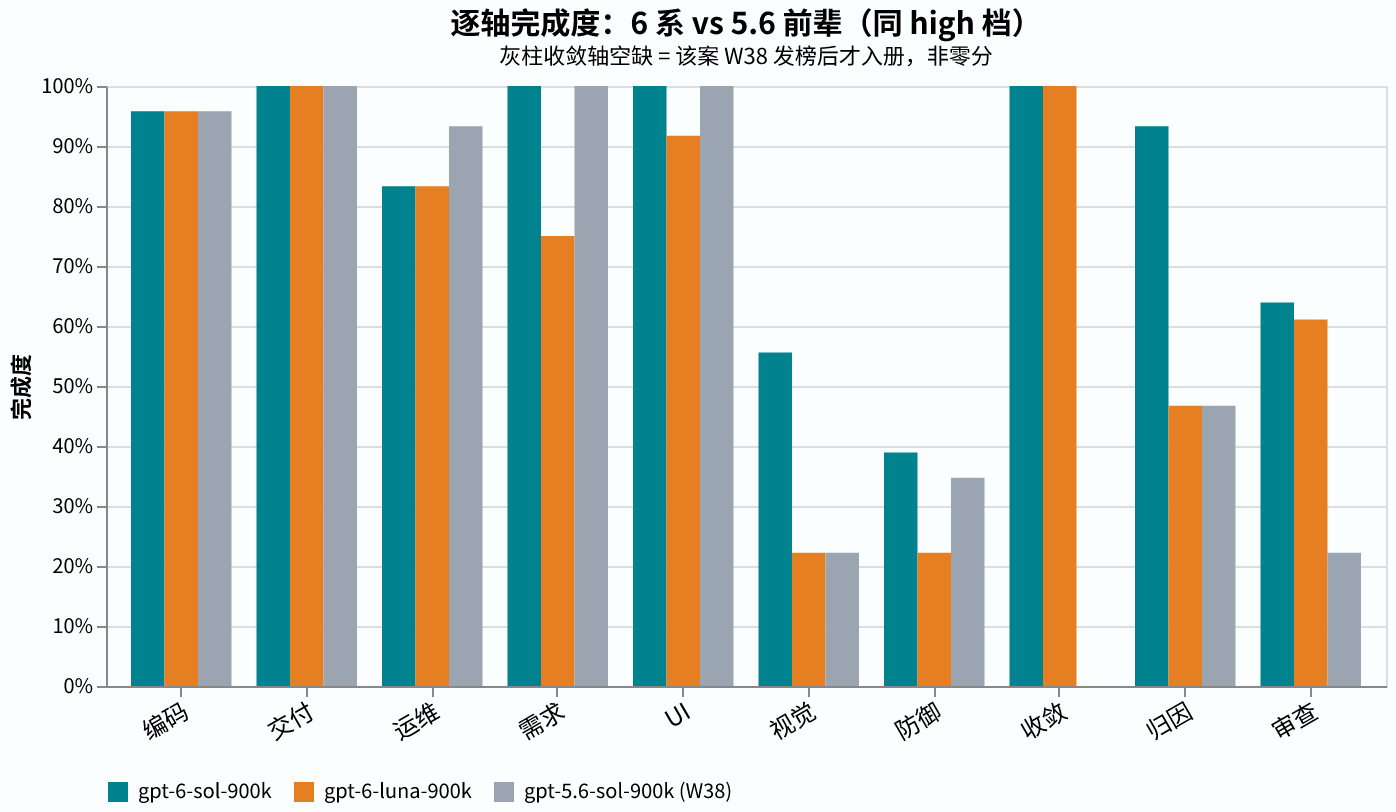
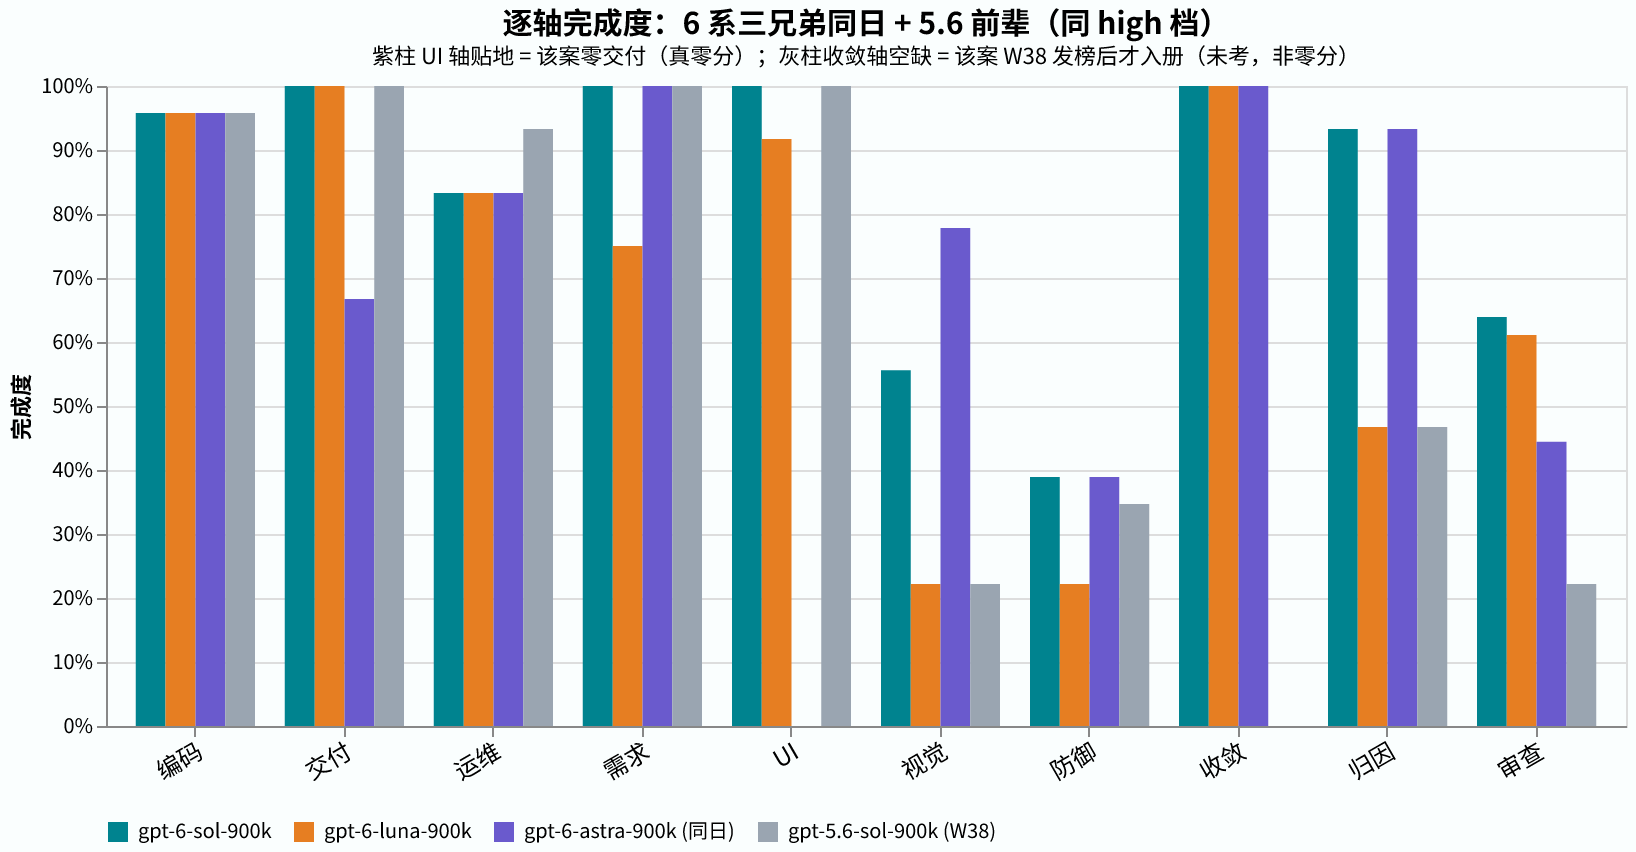
W39: add gpt-6-astra-900k same-day control column (16/24, double-run pair zero flips) to matrix + composition/axes charts + README hooks

diff --git a/results/2026-W39.md b/results/2026-W39.md
@@ -1,8 +1,8 @@
 # 2026-W39 — GPT-6 Sol / Luna 全库首考（OpenAI 6 系首发日）
 
-gpt-6-sol-900k **17/24** · gpt-6-luna-900k **15/24** — 案口径（一个案子要么全钉绿，要么算输）。
+gpt-6-sol-900k **17/24** · gpt-6-astra-900k **16/24**（同日对照）· gpt-6-luna-900k **15/24** — 案口径（一个案子要么全钉绿，要么算输）。
 
-OpenAI 在 2026-09-22 放出 6 系两款子型号（Sol / Luna）。发次日我们让它们在 AMBER 全库（24 案 / 27 卷）各跑了一遍 high 档。结论先行：**Sol 以 17/24 追平目前的跨仓榜首 opus-5.5（引用列，见 [amber-claude W39](https://github.com/getaskclaw/amber-claude/blob/main/results/2026-W39.md)）；Luna 15/24 明显落在后面——5.6 时代「luna ≥ sol」的家族规律在 6 系翻转了。**
+OpenAI 在 2026-09-22 放出 6 系两款子型号（Sol / Luna）。发次日我们让它们在 AMBER 全库（24 案 / 27 卷）各跑了一遍 high 档——6 系在役老面孔 astra-900k 同日作对照腿。结论先行：**Sol 以 17/24 追平目前的跨仓榜首 opus-5.5（引用列，见 [amber-claude W39](https://github.com/getaskclaw/amber-claude/blob/main/results/2026-W39.md)）；Luna 15/24 明显落在后面——5.6 时代「luna ≥ sol」的家族规律在 6 系翻转了。**
 
 ![榜单构成](assets/2026-W39-composition.zh.png)
 
@@ -10,7 +10,7 @@ OpenAI 在 2026-09-22 放出 6 系两款子型号（Sol / Luna）。发次日我
 
 | 项 | 值 |
 |---|---|
-| models | `gpt-6-sol-900k` · `gpt-6-luna-900k` |
+| models | `gpt-6-sol-900k` · `gpt-6-luna-900k`（+ 同日对照腿 `gpt-6-astra-900k` ×2 跑） |
 | provider | OpenAI codex 订阅道 |
 | band | high |
 | window (UTC) | 2026-09-23 05:27 → ~07:55（sol 约 65 min，luna 约 57 min） |
@@ -22,35 +22,35 @@ OpenAI 在 2026-09-22 放出 6 系两款子型号（Sol / Luna）。发次日我
 
 ## 全案矩阵
 
-| case | face | bundle | gpt-6-sol-900k | gpt-6-luna-900k | 前辈 gpt-5.6-sol-900k（W38，同 high 档） |
+| case | face | bundle | gpt-6-sol-900k | gpt-6-luna-900k | gpt-6-astra-900k（同日对照） | 前辈 gpt-5.6-sol-900k（W38，同 high 档） |
 |---|---|---|---|---|---|
-| A-13854d9d | text | `a56b202b0537` | ✓ 5/5 | ✓ 5/5 | ✓ 5/5 |
-| A-1fd3683a | text | `6a980035b42f` | ✓ 2/2 | ✓ 2/2 | ✓ 2/2 |
-| A-791e90ac | text | `0396c8576a56` | ✓ 6/6 | ✓ 6/6 | ✓ 6/6 |
-| A-442d4aab | build | `ddf28dfda1cd` | ✓ 7/7 | ✓ 7/7 | ✓ 7/7 |
-| A-569dbe0d | build | `45ccf06657af` | ✓ 10/10 | ✓ 10/10 | ✓ 10/10 |
-| A-61f7ad01 | build | `991167b1455f` | ✓ 7/7 | ✓ 7/7 | ✓ 7/7 |
-| A-641195e2 | build | `7cc76bad6f89` | ✓ 8/8 | ✓ 8/8 | ✓ 8/8 |
-| A-77d62143 | build | `7edee286f327` | ✓ 8/8 | ✓ 8/8 | ✓ 8/8 |
-| A-87c472cb | build | `cd643fa107e0` | ✗ 6/8 | ✗ 6/8 | ✗ 6/8 |
-| A-a317e74b | verify | `e05970e7d7c9` | ✗ 14/15 | ✗ 7/15 | ✗ 7/15 |
-| A-be92627f | verify | `6593829abdfa` | ✗ 4/9 | ✗ 1/9 | ✗ 4/9 |
-| A-d511f9e8 | verify | `f725082a2dc8` | ✗ 4/12 | ✗ 4/12 | ✗ 3/12 |
-| A-47eea242 | review | `b4b8d4bb44e3` | ✓ | ✓ | ✗ -2 |
-| A-cdc3d11a | review | `dbb207a3118d` | ✗ -0.5 | ✗ -1 | ✗ -2 |
-| A-ea80d793 | vision | `1d69841b029e` | ✗ 1.0 | ✗ -2.0 | ✗ -2 |
-| A-0676097b | req-drift | `3c04bb80fe94` | ✓ 4/4 | ✗ 3/4 | ✓ 4/4 |
-| A-24bcf707 | ops | `ba4431d40006` | ✗ | ✗ | ✗ 3/5 |
-| A-6fbeb363 | ops | `bcfb57e27cff` | ✓ | ✓ | ✓ |
-| A-8c909d0a | ops | `53623441d653` | ✓ | ✓ | ✓ |
-| A-8d4bc770 | ops | `957f29e633c7` | ✓ | ✓ | ✓ |
-| A-984e80ee | ops | `a28b57d4d1f1` | ✓ | ✓ | ✓ |
-| A-a5608487 | ops | `bcfac8de9f29` | ✓ | ✓ | ✓ |
-| A-d9b79b46 | ui-build | `d6d63130ecc6` | ✓ 12/12 | ✗ 11/12 | **✓ 12/12** |
-| A-3f2a9cdd | convergence | `4880adbea261` | ✓ | ✓ | — |
-| **total** | | | **17/24** | **15/24** | 15/23 |
+| A-13854d9d | text | `a56b202b0537` | ✓ 5/5 | ✓ 5/5 | ✗ 0/5 | ✓ 5/5 |
+| A-1fd3683a | text | `6a980035b42f` | ✓ 2/2 | ✓ 2/2 | ✓ 2/2 | ✓ 2/2 |
+| A-791e90ac | text | `0396c8576a56` | ✓ 6/6 | ✓ 6/6 | ✓ 6/6 | ✓ 6/6 |
+| A-442d4aab | build | `ddf28dfda1cd` | ✓ 7/7 | ✓ 7/7 | ✓ 7/7 | ✓ 7/7 |
+| A-569dbe0d | build | `45ccf06657af` | ✓ 10/10 | ✓ 10/10 | ✓ 10/10 | ✓ 10/10 |
+| A-61f7ad01 | build | `991167b1455f` | ✓ 7/7 | ✓ 7/7 | ✓ 7/7 | ✓ 7/7 |
+| A-641195e2 | build | `7cc76bad6f89` | ✓ 8/8 | ✓ 8/8 | ✓ 8/8 | ✓ 8/8 |
+| A-77d62143 | build | `7edee286f327` | ✓ 8/8 | ✓ 8/8 | ✓ 8/8 | ✓ 8/8 |
+| A-87c472cb | build | `cd643fa107e0` | ✗ 6/8 | ✗ 6/8 | ✗ 6/8 | ✗ 6/8 |
+| A-a317e74b | verify | `e05970e7d7c9` | ✗ 14/15 | ✗ 7/15 | ✗ 14/15 | ✗ 7/15 |
+| A-be92627f | verify | `6593829abdfa` | ✗ 4/9 | ✗ 1/9 | ✗ 4/9 | ✗ 4/9 |
+| A-d511f9e8 | verify | `f725082a2dc8` | ✗ 4/12 | ✗ 4/12 | ✗ 4/12 | ✗ 3/12 |
+| A-47eea242 | review | `b4b8d4bb44e3` | ✓ | ✓ | ✓ | ✗ -2 |
+| A-cdc3d11a | review | `dbb207a3118d` | ✗ -0.5 | ✗ -1 | ✗ -6 | ✗ -2 |
+| A-ea80d793 | vision | `1d69841b029e` | ✗ 1.0 | ✗ -2.0 | ✓ | ✗ -2 |
+| A-0676097b | req-drift | `3c04bb80fe94` | ✓ 4/4 | ✗ 3/4 | ✓ 4/4 | ✓ 4/4 |
+| A-24bcf707 | ops | `ba4431d40006` | ✗ | ✗ | ✗ | ✗ 3/5 |
+| A-6fbeb363 | ops | `bcfb57e27cff` | ✓ | ✓ | ✓ | ✓ |
+| A-8c909d0a | ops | `53623441d653` | ✓ | ✓ | ✓ | ✓ |
+| A-8d4bc770 | ops | `957f29e633c7` | ✓ | ✓ | ✓ | ✓ |
+| A-984e80ee | ops | `a28b57d4d1f1` | ✓ | ✓ | ✓ | ✓ |
+| A-a5608487 | ops | `bcfac8de9f29` | ✓ | ✓ | ✓ | ✓ |
+| A-d9b79b46 | ui-build | `d6d63130ecc6` | ✓ 12/12 | ✗ 11/12 | ✗ | **✓ 12/12** |
+| A-3f2a9cdd | convergence | `4880adbea261` | ✓ | ✓ | ✓ | — |
+| **total** | | | **17/24** | **15/24** | **16/24** | 15/23 |
 
-前辈列只作参照：W38 用的是 23 案库（收敛案 `A-3f2a9cdd` 当时未入册），且含裁判更正；不可与本周 24 案口径直接比总数。
+astra 列 = 同日同库同 harness 对照（当日双跑对 r1/r2 过挂集合完全一致，仅 `A-cdc3d11a` 程度差 −6/−1，取 r1）；前辈列只作参照：W38 用的是 23 案库（收敛案 `A-3f2a9cdd` 当时未入册），且含裁判更正；不可与本周 24 案口径直接比总数。
 
 ## 逐轴完成度对拍
 
@@ -64,9 +64,10 @@ OpenAI 在 2026-09-22 放出 6 系两款子型号（Sol / Luna）。发次日我
 
 1. **Sol 追平榜首，但不靠蛮力：** 17/24 的构成里，归因轴从 0.47 跳到 0.93、审查轴从 0.22 跳到 0.64（对照 5.6 前辈），收益主要来自「判官」面而不是施工面——编码/交付两轴两家本来就满。
 2. **家族规律翻转：** 5.6 时代 luna ≥ sol（W36/W37 均是 luna 略优），6 系变成 sol 17 > luna 15；luna 在需求、UI、归因、审查四轴全面落后。
-3. **视觉轴仍是 6 系祖传短板：** sol 1.0、luna −2，两家都没过线（视觉案打分 ≥2 才算过）；5.6 时代就挂，这一代没修。看图审 bug 的场景仍不建议派 6 系。
+3. **视觉轴仍是 6 系祖传短板：** sol 1.0、luna −2，两家都没过线（≥2 才算过）；5.6 时代就挂，这一代没修。看图审 bug 的场景仍不建议派 6 系。
 4. **运维轴小幅回退：** 两家 0.83 < 前辈 0.93，挂点在同一案上，疑似题库敏感而非能力差，先记录不展开。
 5. **基建透明条：** sol 腿的 UI 案（`A-d9b79b46`）首判时 oracle 缺浏览器二进制被判 invalid，修复后按规矩**原地重评**（只重跑判官不重考，manifest 追加修正行），由 16/24 改为 17/24。luna 腿开考时浏览器已在位，不受影响。
-6. **防呆升级：** 本场起 harness 焊死「声明脑 ≠ profile 脑即拒跑」的硬闸（`217be3c6`）——前一天批次曾因 wrapper 漏传模型名把 54 卷考错脑，该事故有复盘档，本场即带着新闸重考。
+6. **同日复现性：** astra-900k 当天被意外连考两场（错脑事故，见下条），两腿 16/24 且过挂集合完全一致、仅一格程度差——单案噪声存在，案级结论可复现。
+7. **防呆升级：** 本场起 harness 焊死「声明脑 ≠ profile 脑即拒跑」的硬闸（`217be3c6`）——前一场次曾因 wrapper 漏传模型名把 54 卷考错脑（废料即上方的同日对照腿，数据有效故保留），该事故有复盘档，本场即带着新闸重考。
 
 English: [2026-W39.en.md](2026-W39.en.md)

diff --git a/results/2026-W39.en.md b/results/2026-W39.en.md
@@ -1,8 +1,8 @@
 # 2026-W39 — GPT-6 Sol / Luna first full run (OpenAI 6-series launch day)
 
-gpt-6-sol-900k **17/24** · gpt-6-luna-900k **15/24** — case-level scoring (a case counts only if every pin is green).
+gpt-6-sol-900k **17/24** · gpt-6-astra-900k **16/24** (same-day control) · gpt-6-luna-900k **15/24** — case-level scoring (a case counts only if every pin is green).
 
-OpenAI shipped two 6-series sub-models (Sol / Luna) on 2026-09-22. The next day we ran both through the full AMBER library (24 cases / 27 runs) at high band. Headline: **Sol ties the current cross-repo leader opus-5.5 at 17/24 (reference column, see [amber-claude W39](https://github.com/getaskclaw/amber-claude/blob/main/results/2026-W39.md)); Luna lands at 15/24 — the 5.6-era family pattern "luna ≥ sol" flips in the 6 series.**
+OpenAI shipped two 6-series sub-models (Sol / Luna) on 2026-09-22. The next day we ran both through the full AMBER library (24 cases / 27 runs) at high band — with astra-900k, the 6-series incumbent, as a same-day control leg. Headline: **Sol ties the current cross-repo leader opus-5.5 at 17/24 (reference column, see [amber-claude W39](https://github.com/getaskclaw/amber-claude/blob/main/results/2026-W39.md)); Luna lands at 15/24 — the 5.6-era family pattern "luna ≥ sol" flips in the 6 series.**
 
 ![board composition](assets/2026-W39-composition.en.png)
 
@@ -10,7 +10,7 @@ OpenAI shipped two 6-series sub-models (Sol / Luna) on 2026-09-22. The next day 
 
 | field | value |
 |---|---|
-| models | `gpt-6-sol-900k` · `gpt-6-luna-900k` |
+| models | `gpt-6-sol-900k` · `gpt-6-luna-900k` (plus same-day control leg `gpt-6-astra-900k`, two runs) |
 | provider | OpenAI codex subscription lane |
 | band | high |
 | window (UTC) | 2026-09-23 05:27 → ~07:55 (sol ≈ 65 min, luna ≈ 57 min) |
@@ -22,35 +22,35 @@ OpenAI shipped two 6-series sub-models (Sol / Luna) on 2026-09-22. The next day 
 
 ## Full matrix
 
-| case | face | bundle | gpt-6-sol-900k | gpt-6-luna-900k | predecessor gpt-5.6-sol-900k (W38, same high band) |
+| case | face | bundle | gpt-6-sol-900k | gpt-6-luna-900k | gpt-6-astra-900k (same-day control) | predecessor gpt-5.6-sol-900k (W38, same high band) |
 |---|---|---|---|---|---|
-| A-13854d9d | text | `a56b202b0537` | ✓ 5/5 | ✓ 5/5 | ✓ 5/5 |
-| A-1fd3683a | text | `6a980035b42f` | ✓ 2/2 | ✓ 2/2 | ✓ 2/2 |
-| A-791e90ac | text | `0396c8576a56` | ✓ 6/6 | ✓ 6/6 | ✓ 6/6 |
-| A-442d4aab | build | `ddf28dfda1cd` | ✓ 7/7 | ✓ 7/7 | ✓ 7/7 |
-| A-569dbe0d | build | `45ccf06657af` | ✓ 10/10 | ✓ 10/10 | ✓ 10/10 |
-| A-61f7ad01 | build | `991167b1455f` | ✓ 7/7 | ✓ 7/7 | ✓ 7/7 |
-| A-641195e2 | build | `7cc76bad6f89` | ✓ 8/8 | ✓ 8/8 | ✓ 8/8 |
-| A-77d62143 | build | `7edee286f327` | ✓ 8/8 | ✓ 8/8 | ✓ 8/8 |
-| A-87c472cb | build | `cd643fa107e0` | ✗ 6/8 | ✗ 6/8 | ✗ 6/8 |
-| A-a317e74b | verify | `e05970e7d7c9` | ✗ 14/15 | ✗ 7/15 | ✗ 7/15 |
-| A-be92627f | verify | `6593829abdfa` | ✗ 4/9 | ✗ 1/9 | ✗ 4/9 |
-| A-d511f9e8 | verify | `f725082a2dc8` | ✗ 4/12 | ✗ 4/12 | ✗ 3/12 |
-| A-47eea242 | review | `b4b8d4bb44e3` | ✓ | ✓ | ✗ -2 |
-| A-cdc3d11a | review | `dbb207a3118d` | ✗ -0.5 | ✗ -1 | ✗ -2 |
-| A-ea80d793 | vision | `1d69841b029e` | ✗ 1.0 | ✗ -2.0 | ✗ -2 |
-| A-0676097b | req-drift | `3c04bb80fe94` | ✓ 4/4 | ✗ 3/4 | ✓ 4/4 |
-| A-24bcf707 | ops | `ba4431d40006` | ✗ | ✗ | ✗ 3/5 |
-| A-6fbeb363 | ops | `bcfb57e27cff` | ✓ | ✓ | ✓ |
-| A-8c909d0a | ops | `53623441d653` | ✓ | ✓ | ✓ |
-| A-8d4bc770 | ops | `957f29e633c7` | ✓ | ✓ | ✓ |
-| A-984e80ee | ops | `a28b57d4d1f1` | ✓ | ✓ | ✓ |
-| A-a5608487 | ops | `bcfac8de9f29` | ✓ | ✓ | ✓ |
-| A-d9b79b46 | ui-build | `d6d63130ecc6` | ✓ 12/12 | ✗ 11/12 | **✓ 12/12** |
-| A-3f2a9cdd | convergence | `4880adbea261` | ✓ | ✓ | — |
-| **total** | | | **17/24** | **15/24** | 15/23 |
+| A-13854d9d | text | `a56b202b0537` | ✓ 5/5 | ✓ 5/5 | ✗ 0/5 | ✓ 5/5 |
+| A-1fd3683a | text | `6a980035b42f` | ✓ 2/2 | ✓ 2/2 | ✓ 2/2 | ✓ 2/2 |
+| A-791e90ac | text | `0396c8576a56` | ✓ 6/6 | ✓ 6/6 | ✓ 6/6 | ✓ 6/6 |
+| A-442d4aab | build | `ddf28dfda1cd` | ✓ 7/7 | ✓ 7/7 | ✓ 7/7 | ✓ 7/7 |
+| A-569dbe0d | build | `45ccf06657af` | ✓ 10/10 | ✓ 10/10 | ✓ 10/10 | ✓ 10/10 |
+| A-61f7ad01 | build | `991167b1455f` | ✓ 7/7 | ✓ 7/7 | ✓ 7/7 | ✓ 7/7 |
+| A-641195e2 | build | `7cc76bad6f89` | ✓ 8/8 | ✓ 8/8 | ✓ 8/8 | ✓ 8/8 |
+| A-77d62143 | build | `7edee286f327` | ✓ 8/8 | ✓ 8/8 | ✓ 8/8 | ✓ 8/8 |
+| A-87c472cb | build | `cd643fa107e0` | ✗ 6/8 | ✗ 6/8 | ✗ 6/8 | ✗ 6/8 |
+| A-a317e74b | verify | `e05970e7d7c9` | ✗ 14/15 | ✗ 7/15 | ✗ 14/15 | ✗ 7/15 |
+| A-be92627f | verify | `6593829abdfa` | ✗ 4/9 | ✗ 1/9 | ✗ 4/9 | ✗ 4/9 |
+| A-d511f9e8 | verify | `f725082a2dc8` | ✗ 4/12 | ✗ 4/12 | ✗ 4/12 | ✗ 3/12 |
+| A-47eea242 | review | `b4b8d4bb44e3` | ✓ | ✓ | ✓ | ✗ -2 |
+| A-cdc3d11a | review | `dbb207a3118d` | ✗ -0.5 | ✗ -1 | ✗ -6 | ✗ -2 |
+| A-ea80d793 | vision | `1d69841b029e` | ✗ 1.0 | ✗ -2.0 | ✓ | ✗ -2 |
+| A-0676097b | req-drift | `3c04bb80fe94` | ✓ 4/4 | ✗ 3/4 | ✓ 4/4 | ✓ 4/4 |
+| A-24bcf707 | ops | `ba4431d40006` | ✗ | ✗ | ✗ | ✗ 3/5 |
+| A-6fbeb363 | ops | `bcfb57e27cff` | ✓ | ✓ | ✓ | ✓ |
+| A-8c909d0a | ops | `53623441d653` | ✓ | ✓ | ✓ | ✓ |
+| A-8d4bc770 | ops | `957f29e633c7` | ✓ | ✓ | ✓ | ✓ |
+| A-984e80ee | ops | `a28b57d4d1f1` | ✓ | ✓ | ✓ | ✓ |
+| A-a5608487 | ops | `bcfac8de9f29` | ✓ | ✓ | ✓ | ✓ |
+| A-d9b79b46 | ui-build | `d6d63130ecc6` | ✓ 12/12 | ✗ 11/12 | ✗ | **✓ 12/12** |
+| A-3f2a9cdd | convergence | `4880adbea261` | ✓ | ✓ | ✓ | — |
+| **total** | | | **17/24** | **15/24** | **16/24** | 15/23 |
 
-The predecessor column is reference-only: W38 used the 23-case library (the convergence case `A-3f2a9cdd` was not yet admitted) and includes adjudication corrections; its total is not directly comparable to this week's 24-case headline.
+The astra column is a same-day, same-library, same-harness control (the day's double-run pair r1/r2 had identical pass/fail sets; only the `A-cdc3d11a` degree differs, −6 vs −1 — r1 shown). The predecessor column is reference-only: W38 used the 23-case library (the convergence case `A-3f2a9cdd` was not yet admitted) and includes adjudication corrections; its total is not directly comparable to this week's 24-case headline.
 
 ## Per-axis completion
 
@@ -67,6 +67,7 @@ The predecessor column is reference-only: W38 used the 23-case library (the conv
 3. **Vision is still the 6-series heirloom weakness:** sol 1.0, luna −2 — neither passes (≥ 2 required). It failed in 5.6 too and was not fixed this generation. Don't send 6-series to screenshot-review work.
 4. **Ops axis regresses slightly:** both at 0.83 vs the predecessor's 0.93, failing the same case — likely case-sensitivity rather than capability; logged, not pursued.
 5. **Infra transparency:** sol's UI case (`A-d9b79b46`) was first marked invalid because the oracle lacked its browser binary; after the fix we **re-judged in place** (re-ran the judge only, appended a correction row to the manifest, no re-exam), moving sol from 16/24 to 17/24. Luna's leg started after the browser was in place and was unaffected.
-6. **Guardrail upgrade:** from this run the harness hard-fails when the declared brain differs from the profile brain (`217be3c6`) — the previous day's batch burned 54 runs on the wrong brain due to a wrapper missing the model variable; that incident has a postmortem, and this run was the re-take under the new gate.
+6. **Same-day reproducibility:** astra-900k was accidentally examined twice that day (the wrong-brain incident, see below) — both legs scored 16/24 with identical pass/fail sets and only one degree difference. Case noise exists; case-level conclusions reproduce.
+7. **Guardrail upgrade:** from this run the harness hard-fails when the declared brain differs from the profile brain (`217be3c6`) — the earlier batch burned 54 runs on the wrong brain due to a wrapper missing the model variable (its output is the same-day control column above; kept because the data is valid); that incident has a postmortem, and this run was the re-take under the new gate.
 
 中文: [2026-W39.md](2026-W39.md)

diff --git a/README.en.md b/README.en.md
@@ -27,7 +27,7 @@ The same model on the same provider can score differently across runs — servin
 
 ## Charts
 
-- **Report card** (2026-W39, 24-case library): first full run the day after the 6-series launch — gpt-6-sol-900k **17/24**, gpt-6-luna-900k **15/24**; sol ties the cross-repo leader (opus-5.5 17/24, see [amber-claude W39](https://github.com/getaskclaw/amber-claude/blob/main/results/2026-W39.md)), and the 5.6-era family pattern "luna ≥ sol" flips in the 6 series. See [W39](results/2026-W39.en.md).
+- **Report card** (2026-W39, 24-case library): first full run the day after the 6-series launch — gpt-6-sol-900k **17/24**, gpt-6-astra-900k **16/24** (same-day control), gpt-6-luna-900k **15/24**; sol ties the cross-repo leader (opus-5.5 17/24, see [amber-claude W39](https://github.com/getaskclaw/amber-claude/blob/main/results/2026-W39.md)), and the 5.6-era family pattern "luna ≥ sol" flips in the 6 series. See [W39](results/2026-W39.en.md).
   ![W39 board composition](results/assets/2026-W39-composition.en.png)
 - **Ten-axis profile** (2026-W39): the 6-series gains are on the judge faces (defect-hunt / attribution / review — axes about finding faults in others' work) — attribution 0.47→0.93, review 0.22→0.64 (vs the 5.6 predecessor; 0 = all wrong, 1 = perfect); vision remains the heirloom weakness (vision case score sol 1.0 / luna −2; ≥ 2 passes, neither does).
   ![W39 ten-axis profile](results/assets/2026-W39-radar.en.png)
@@ -48,7 +48,7 @@ The same model on the same provider can score differently across runs — servin
 | [2026-W37](results/2026-W37.md) | gpt-5.6-luna-900k at three bands + gpt-5.6-sol-900k at two (new 23-case library); astra makeup on bare base for the 2 new cases (addendum) | luna posts the same 15/23 with the same fail list at all three bands — effort buys nothing, xhigh is 2.9× tokens for the same card; no sol band beats luna; top-band backlash again at xhigh (timeout walls); astra passes both makeup cases → blended 16/23 (the -900k variant was revoked; blended tally noted). Addendum 2 (09-12): third luna-high run 15/23 (headline stable, fail set drifts ±2 across days); four-band re-sweep proves "none" = server-default medium (reasoning_tokens audit), effort-no-gain stands; new orchestration case low 21 > high 15, top-band backlash; sol re-run paused at 9/26, unscored. Addendum 3 (09-16): sol re-test overturns the ui-build cell → 15/23 |
 | [2026-W38](results/2026-W38.md) | gpt-5.6-sol-900k @ high full-library drift re-test (vs W37) | zero capability drift — 22/23 identical pass/fail, hard discriminator still 7/7; the one change is the ui-build reversal (client-side watchdog kill, makeup 12/12 perfect) → **15/23**, fourth published lane with a perfect score on that case; luna's matching cell flagged suspected-wrongful, unmeasured; upstream hermes-agent#112909. Addendum 4 (09-17): luna's first **max**-band run scores **16/23**, the fullest luna band — but the +1 (first ui-build delivery, 12/12) is confounded with the 09-16 watchdog fix; confound-adjusted it is 15/23, tied with high, so "effort buys nothing" holds (397K reasoning ≈ 2.6× high); vision case 5.0 sets the all-time published best; attribution 14/15→7/15 replays the top-band backlash |
 | [2026-W38 correction notice](results/2026-W38-correction.en.md) | W38 full-library review: 12 cells reversed · 14 held in this repo | Eight W36 astra max/xhigh cells exonerated (published marks to be flipped); 14 W37 luna/sol cells held; 1 W38 Add4 cell + 3 sol re-test cells exonerated |
-| [2026-W39](results/2026-W39.en.md) | gpt-6-sol-900k + gpt-6-luna-900k @ high, first full run (24 cases, day after the 6-series launch) | sol **17/24** ties the cross-repo leader opus-5.5; luna 15/24; the "luna ≥ sol" family pattern flips in the 6 series; gains on the judge faces (attribution 0.47→0.93, review 0.22→0.64), vision still the weakness (1.0 / −2, both below the line); harness now hard-fails on brain mismatch |
+| [2026-W39](results/2026-W39.en.md) | gpt-6-sol-900k + gpt-6-luna-900k @ high first full run + gpt-6-astra-900k same-day control (24 cases, day after the 6-series launch) | sol **17/24** ties the cross-repo leader opus-5.5; astra same-day control 16/24 (double-run pair, zero flips); luna 15/24; the "luna ≥ sol" family pattern flips in the 6 series; gains on the judge faces (attribution 0.47→0.93, review 0.22→0.64), vision still the weakness (1.0 / −2, both below the line); harness now hard-fails on brain mismatch |
 
 ## Disclaimer
 

diff --git a/README.md b/README.md
@@ -27,7 +27,7 @@ English: [README.en.md](README.en.md)
 
 ## 图说数据
 
-- **本期成绩单**（2026-W39，24 案全库）：6 系首发日次日全库首考——gpt-6-sol-900k **17/24**、gpt-6-luna-900k **15/24**；sol 追平跨仓榜首（opus-5.5 17/24，见 [amber-claude W39](https://github.com/getaskclaw/amber-claude/blob/main/results/2026-W39.md)），5.6 时代「luna ≥ sol」的家族规律在 6 系翻转。详见 [W39](results/2026-W39.md)。
+- **本期成绩单**（2026-W39，24 案全库）：6 系首发日次日全库首考——gpt-6-sol-900k **17/24**、gpt-6-astra-900k **16/24**（同日对照）、gpt-6-luna-900k **15/24**；sol 追平跨仓榜首（opus-5.5 17/24，见 [amber-claude W39](https://github.com/getaskclaw/amber-claude/blob/main/results/2026-W39.md)），5.6 时代「luna ≥ sol」的家族规律在 6 系翻转。详见 [W39](results/2026-W39.md)。
   ![W39 榜单构成](results/assets/2026-W39-composition.zh.png)
 - **十轴画像**（2026-W39）：6 系的收益在「判官」面（找茬/归因/审查这类挑别人毛病的轴）——归因 0.47→0.93、审查 0.22→0.64（对照 5.6 前辈，0=全错、1=满分）；视觉轴仍是祖传短板（视觉案打分 sol 1.0 / luna −2，≥2 才算过线，两家都没过）。
   ![W39 十轴画像](results/assets/2026-W39-radar.zh.png)
@@ -48,7 +48,7 @@ English: [README.en.md](README.en.md)
 | [2026-W37](results/2026-W37.md) | gpt-5.6-luna-900k 三档 + gpt-5.6-sol-900k 两档（23 案新库）；astra 裸 base 补考 2 新案（addendum） | luna 三档同分同名单（15/23），effort 零收益，xhigh=2.9x 纯浪费；sol 无一档赢 luna;xhigh 超时墙再现顶档反噬；astra 补考全过→合成 16/23（-900k 变体已被收回，口径混合已标注）。Addendum 3（09-16）：sol 重测平反 UI 案 → 15/23 |
 | [2026-W38](results/2026-W38.md) | gpt-5.6-sol-900k @ high 全库降智复测（对拍 W37） | 零能力回退：22/23 案过挂一致，hard 区分器 7/7 依旧；唯一变化=UI 案平反（客户端看门狗误杀，补考 12/12 满分）→ **15/23**，第四家该案满分车道；luna 同案疑似同冤（未复测）；上游 hermes-agent#112909。Addendum 4（09-17）：luna max 档首考 **16/23** 档梯最满——但 +1 案（UI 案 12/12 首交付）与 09-16 看门狗修复同日混杂，剔除后实为 15/23 与 high 打平，「effort 零收益」成立（reasoning 397K ≈ high 2.6 倍）；视觉案 5.0 刷已发布历史最高；归因案 14/15→7/15 顶档反噬同型再现 |
 | [2026-W38 更正特刊](results/2026-W38-correction.md) | W38 全库复核:本仓改判 12 格 · 挂起 14 格 | W36 astra max/xhigh 8 格平反(公开旧值应改钩);W37 luna/sol 14 格挂起;W38 Add4 1 格 + sol 复测 3 格平反 |
-| [2026-W39](results/2026-W39.md) | gpt-6-sol-900k + gpt-6-luna-900k @ high 全库首考（24 案，6 系首发次日） | sol **17/24** 追平跨仓榜首 opus-5.5；luna 15/24；家族规律「luna≥sol」在 6 系翻转；收益在判官面（归因 0.47→0.93、审查 0.22→0.64），视觉轴仍是短板（1.0 / −2 均未过线）；harness 起焊死验脑硬闸 |
+| [2026-W39](results/2026-W39.md) | gpt-6-sol-900k + gpt-6-luna-900k @ high 全库首考 + gpt-6-astra-900k 同日对照（24 案，6 系首发次日） | sol **17/24** 追平跨仓榜首 opus-5.5；astra 同日对照 16/24（双跑对零翻转）；luna 15/24；家族规律「luna≥sol」在 6 系翻转；收益在判官面（归因 0.47→0.93、审查 0.22→0.64），视觉轴仍是短板（1.0 / −2 均未过线）；harness 起焊死验脑硬闸 |
 
 ## 免责
 
